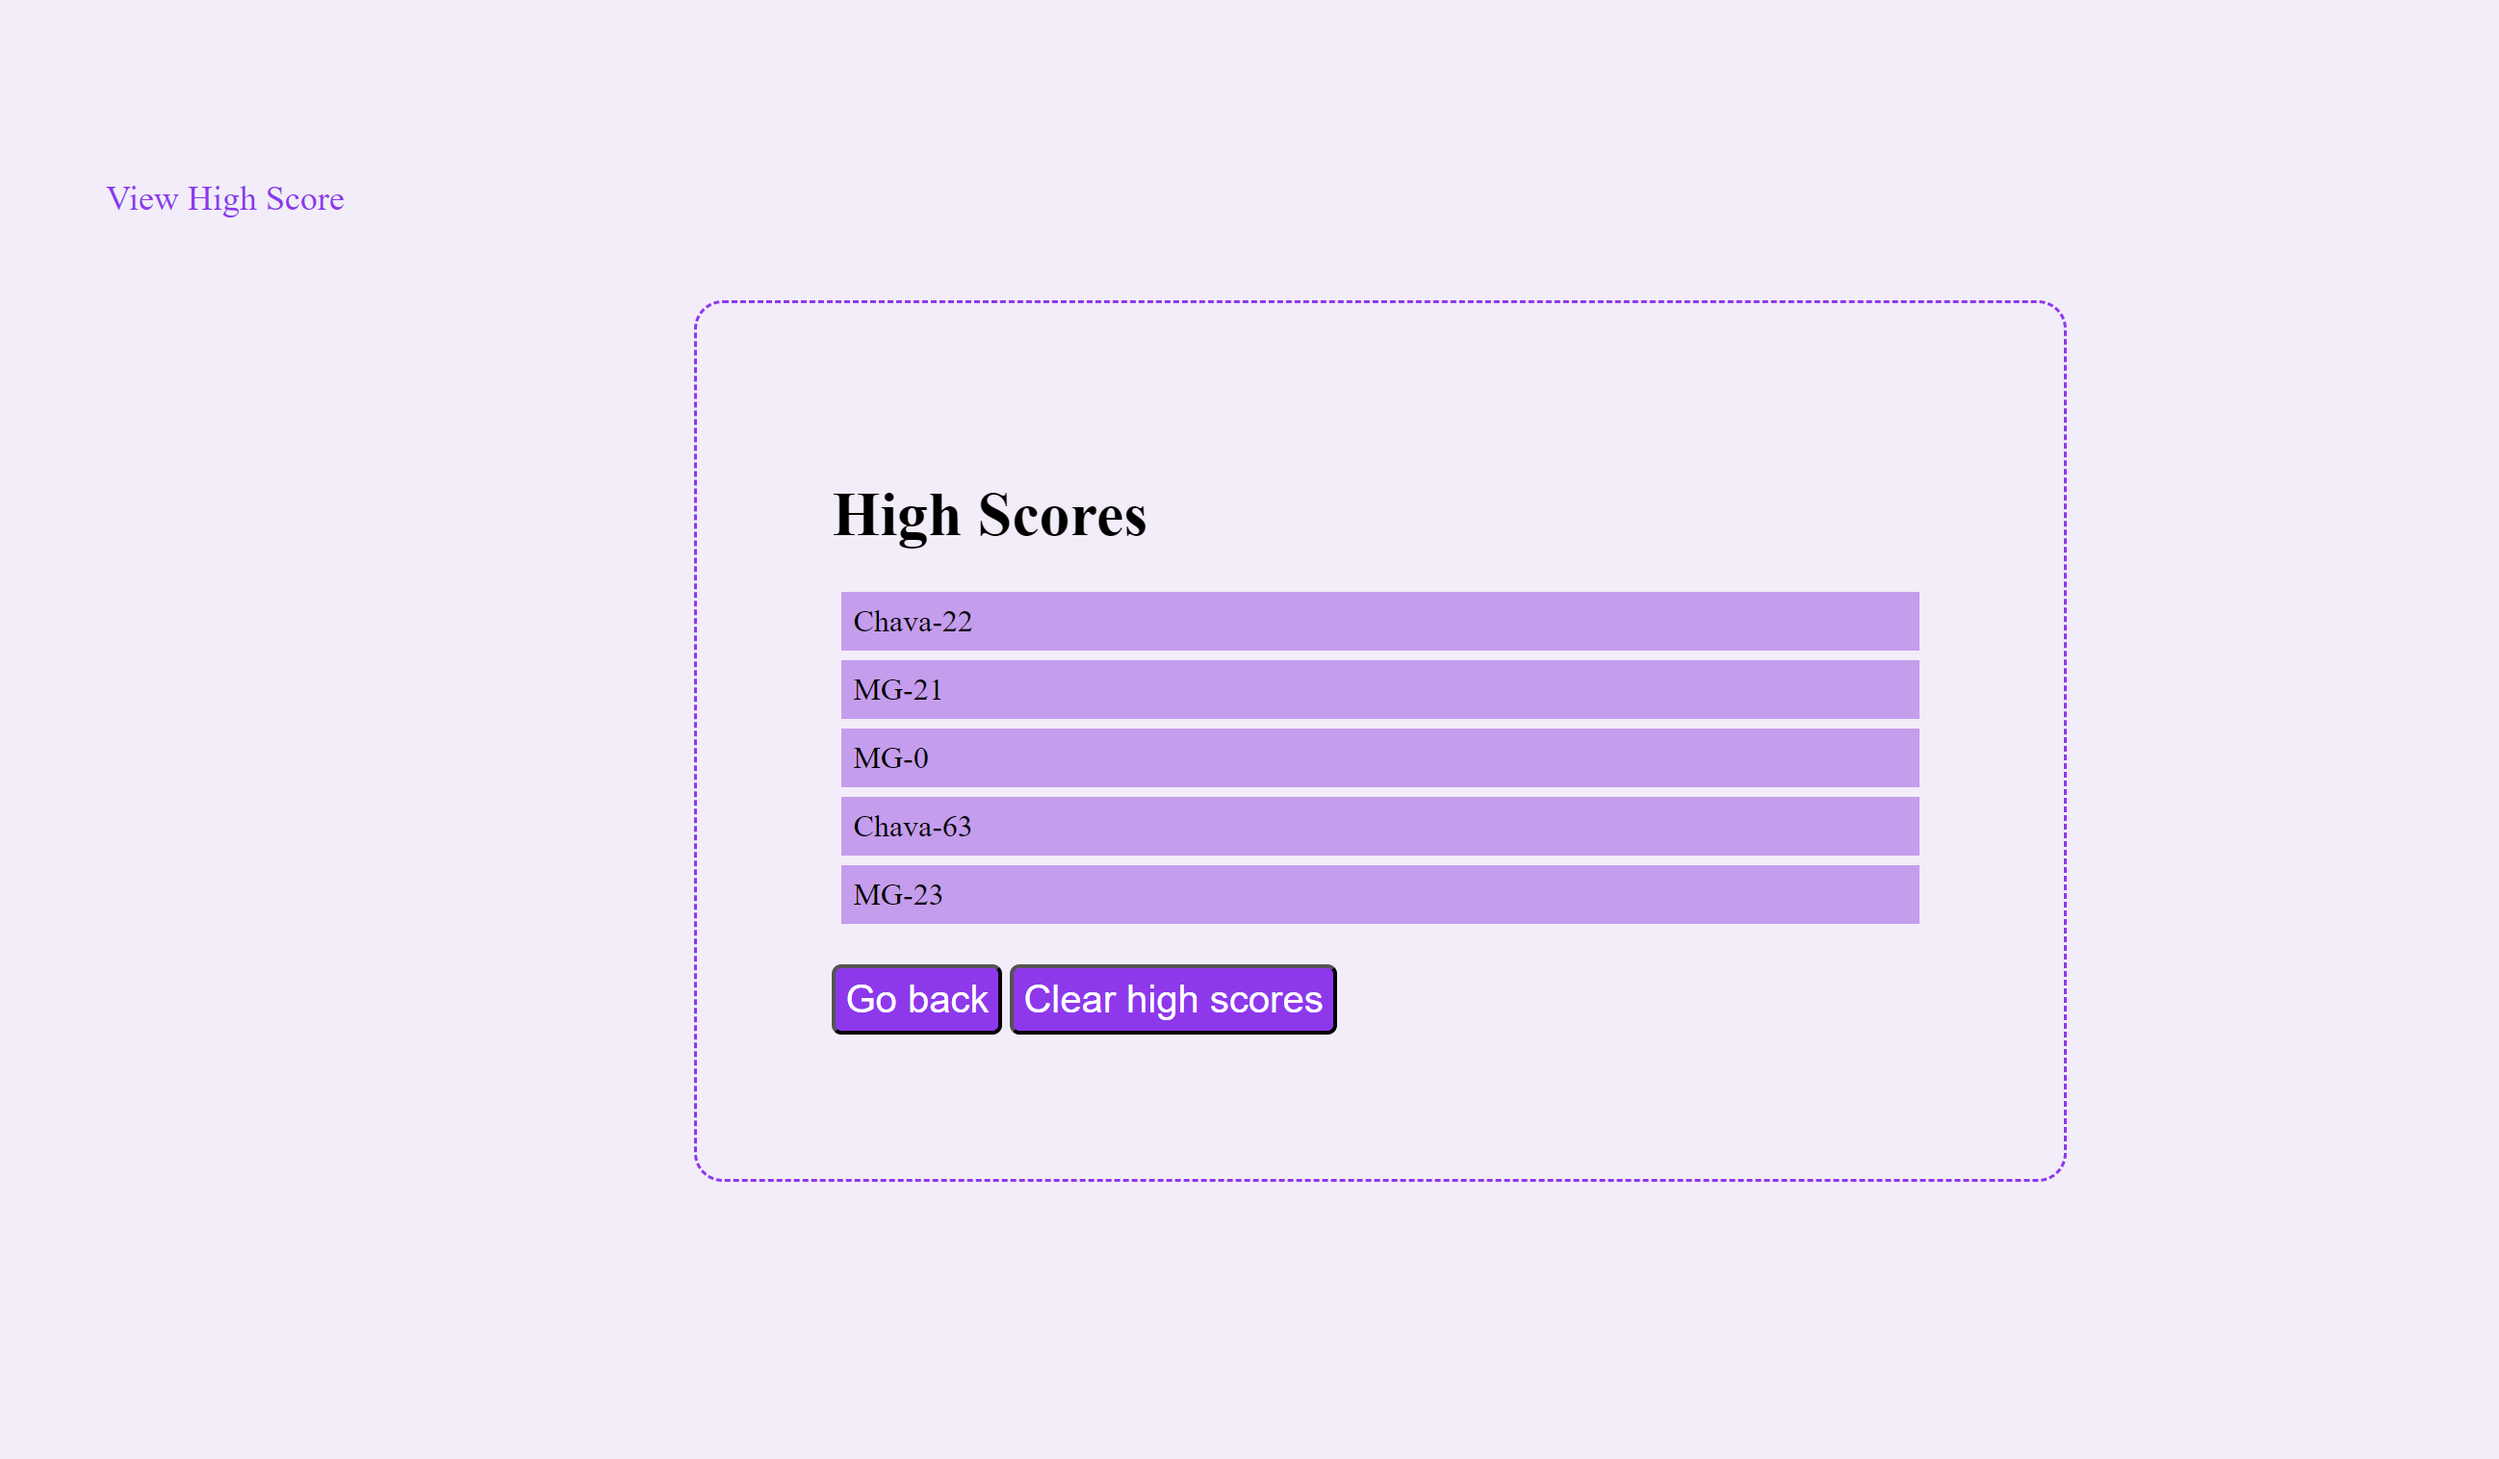
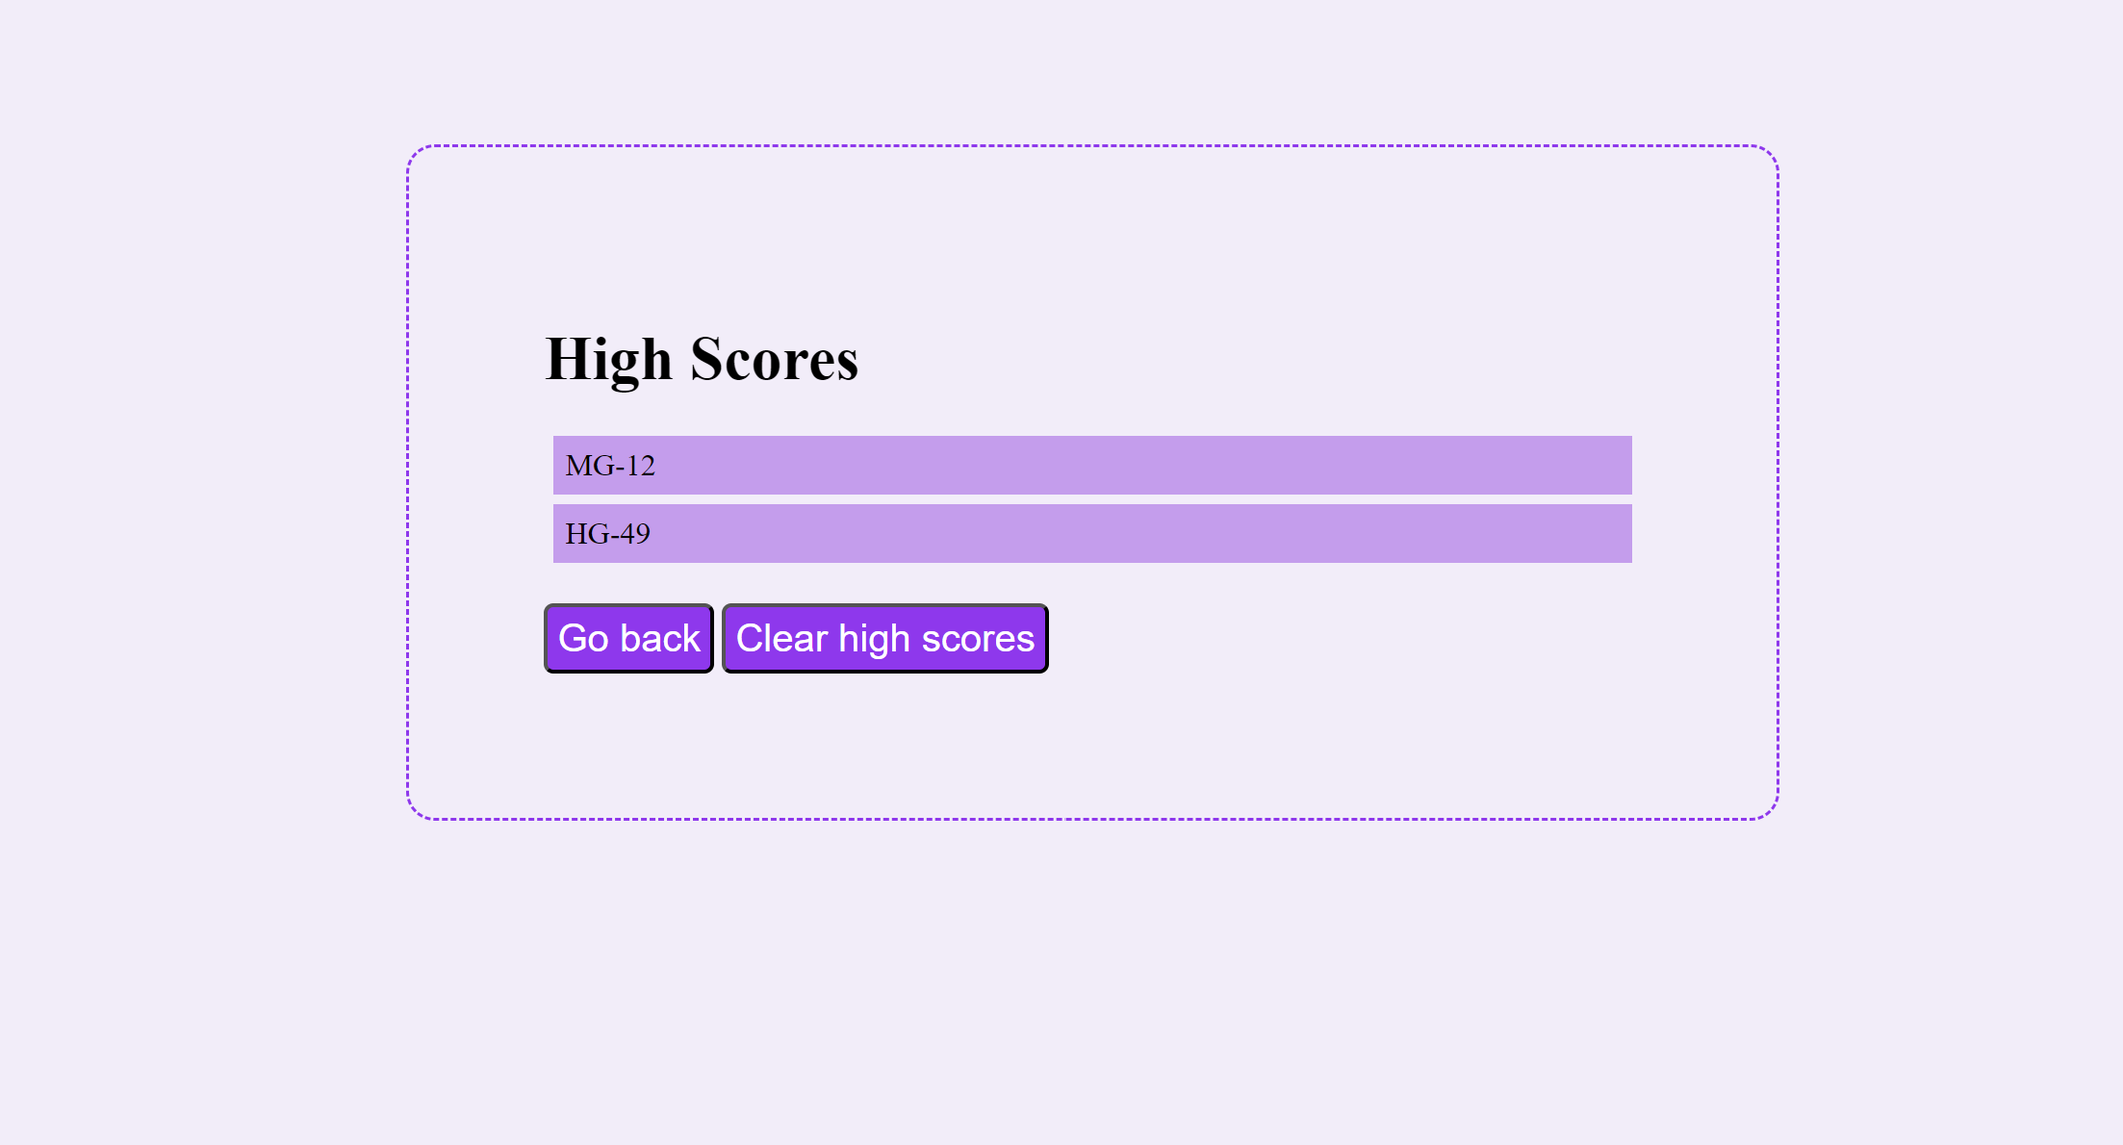
code clean up

Changed region(s): [[0.2466, 0.2798, 0.7706, 0.7151], [0.0308, 0.1244, 0.1233, 0.1555]]

diff --git a/assets/script.js b/assets/script.js
@@ -71,7 +71,7 @@ var savedScores = $("#savedScores");
 
 var secondsLeft = 76;
 var score = 0;
-
+var timesRun = 0;
 
 // timer running the whole time. 
 var setTime = function() {
@@ -96,17 +96,9 @@ var setTime = function() {
   
     }, 1000);
 }
-var timesRun = 0;
 
 var startQuiz = function(){
-    // if(secondsLeft == 0 ){
-    //     score = secondsLeft; // sets the score
-    //     secondsLeft = 77; // stops the timer
-    //     quiz.css("display", "none");
-    //     finalScore.css("display", "block");
-    //     $("#finalScore").text(`Your final score is: ${score}.`);
-    //     return;
-    // }
+
     if(timesRun == 0 ){ // runs the timer only by the first question.
         setTime();
         console.log(secondsLeft);
@@ -119,7 +111,6 @@ var startQuiz = function(){
     questionEl.text(Questions[currQuestion].q);
     answersEl.empty();
     
-
     for (var i = 0; i < Questions[currQuestion].a.length; i++){
         var btn = `<li><button class="chosenAnswer" data-isCorrect= "${Questions[currQuestion].a[i].isCorrect}"> ${Questions[currQuestion].a[i].text } </button></li>`;
         answersEl.append(btn);
@@ -129,15 +120,12 @@ var startQuiz = function(){
 
     var chosen = answersEl.children('li').children('button');
     
-    
-    
     chosen.on('click', function(){
         
         //console.log($(this).attr("data-isCorrect"));
         var answer = $(this).attr("data-isCorrect");
 
         //if the $(this).attr("data-isCorrect") is true then set $(".answerIsCorrect") to correct
-        
         if(answer === 'true'){
             answerIsCorrect.empty();
             answerIsCorrect.append("Correct");
@@ -150,7 +138,6 @@ var startQuiz = function(){
 
         }
         
-       
         //after the last question, go to final score page. and return-leave the function.
         if(currQuestion >= Questions.length){
             if(secondsLeft < 0 ){
@@ -171,16 +158,8 @@ var startQuiz = function(){
    
 };
 
-
-start.on('click', startQuiz);
-
-//put onClick listener for the submitBtn 
-//this function saves it to the local storage as an object. 
-// to access it iterate through getScore[i].username
-// at i get the username and score and put it into a string like MG-22.
-// add to a list #savedScores in the highScore element
-
 var displayScores = function(){
+    $(".link").css("display", "none");
     var scoreCard = "";
 
     var getScore = JSON.parse(localStorage.getItem("highScores"))||[];
@@ -220,6 +199,7 @@ var saveToStorage = function(event){
     
 }
 
+start.on('click', startQuiz);
 $("#submitBtn").on("click", saveToStorage);
 
 $(".link").on("click", function(){
